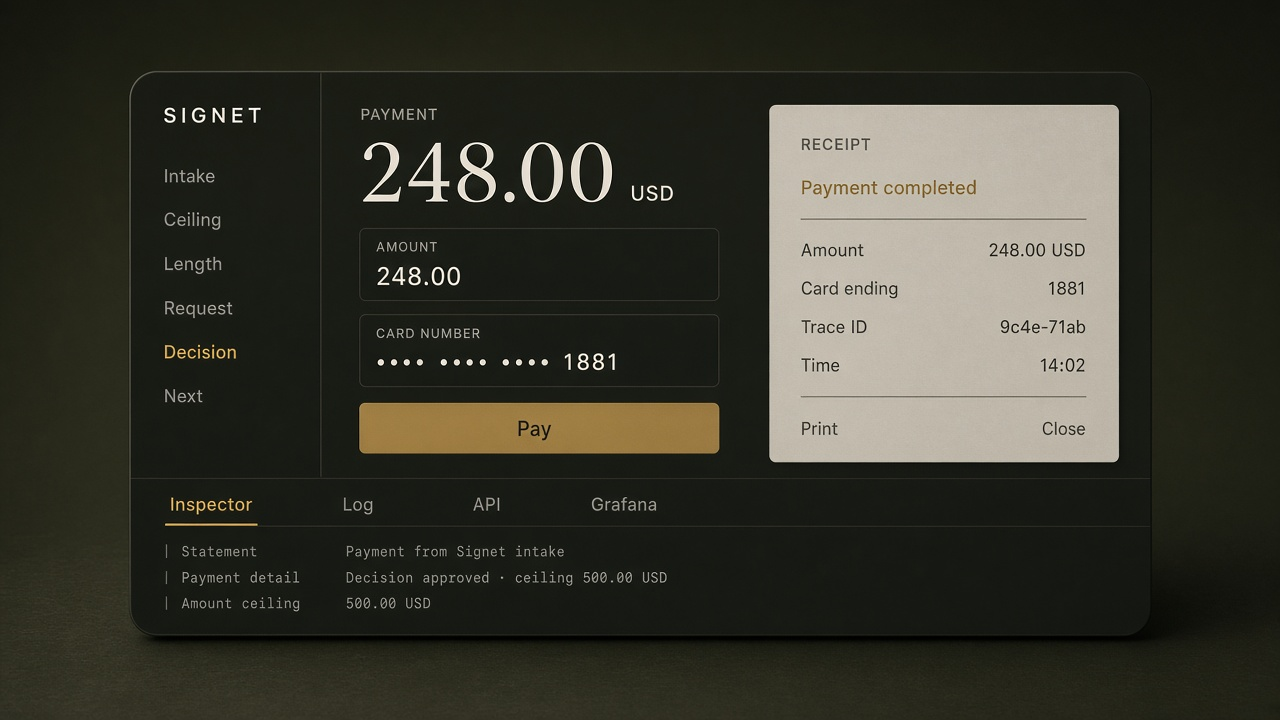
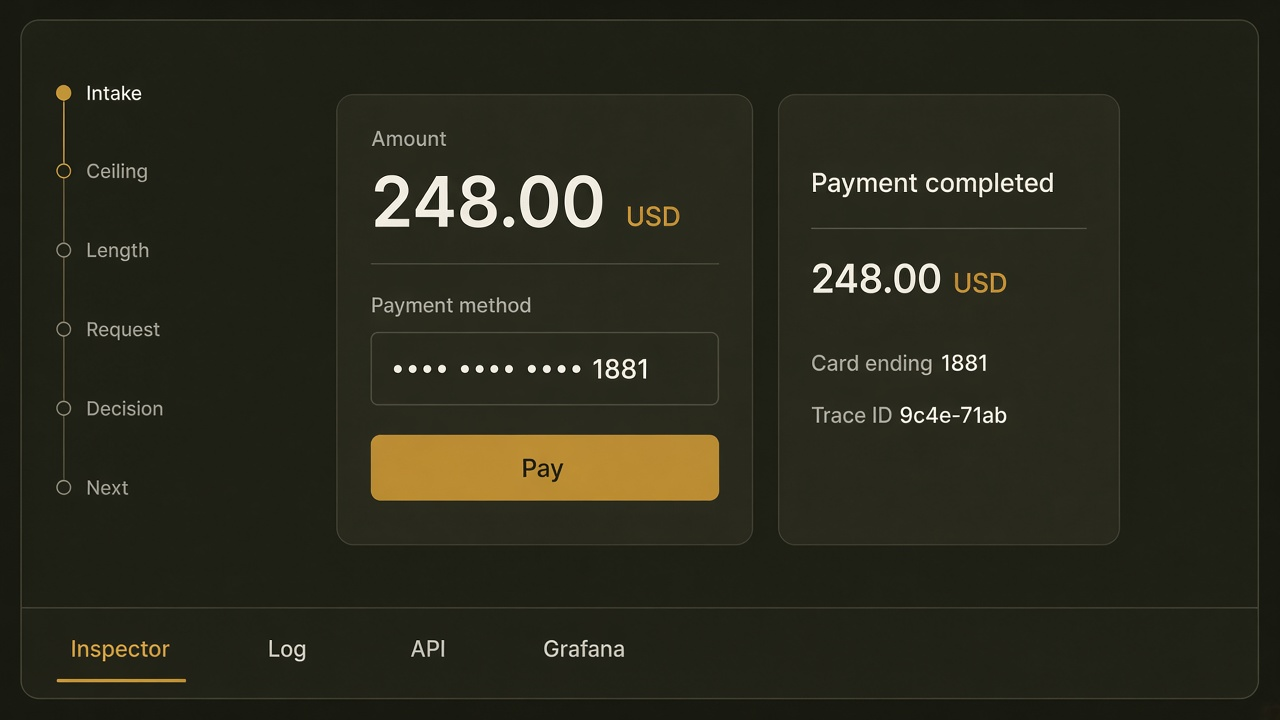
Show the gateway as a system graphic on the GitHub page.

diff --git a/README.md b/README.md
@@ -1,51 +1,64 @@
 # Signet
 
-![Signet checkout and operations console](docs/signet-gateway.jpg)
+![Python](https://img.shields.io/badge/Python-3.12-3776AB?logo=python&logoColor=white) ![FastAPI](https://img.shields.io/badge/FastAPI-009688?logo=fastapi&logoColor=white) ![Docker](https://img.shields.io/badge/Docker-2496ED?logo=docker&logoColor=white) ![Postgres](https://img.shields.io/badge/Postgres-4169E1?logo=postgresql&logoColor=white) ![OpenTelemetry](https://img.shields.io/badge/OpenTelemetry-425CC7?logo=opentelemetry&logoColor=white) ![Grafana](https://img.shields.io/badge/Grafana-F46800?logo=grafana&logoColor=white)
 
-**E-commerce payment gateway, with the operations console on the same screen.** A shopper enters an amount and a card number. Signet walks the payment through six steps: Intake, amount ceiling, card length, authorization request, decision, and next action. Success issues a receipt with a trace id. The full card number is never stored and never returned. The decision runs inside this service.
+![Signet gateway](docs/signet-gateway.jpg)
 
-**Public app:** https://signet-3oz8.onrender.com  
-**Local app:** http://127.0.0.1:8001/  
-**Grafana (this PC only):** http://127.0.0.1:3001
+**An e-commerce payment gateway, with the operations console beside it.**
 
-`main` auto-deploys the Render development service. Production is a manual deploy in the Render dashboard. Grafana is not on the public service.
-
-Ops tabs: **Inspector · Log · API · Grafana**.
-
-## Checkout
-
-A checkout has to stop in a definite place. The amount can be over the ceiling. The card number can be the wrong length. One card is accepted. One card is declined from a stored plate. Every other valid card receives one stored institution sentence, or a plain "no rule" sentence when none is stored. The shopper sees the sentence and the next action on the same screen.
-
-Operators watch the same payment from Ops. Inspector shows the latest statement, the payment detail, and the amount ceiling at the bottom. Log shows the authorization rows. API shows the live routes. Grafana, on this PC only, shows request rate and latency. Those four views sit beside the checkout.
+**Public service:** https://signet-3oz8.onrender.com  
+**Local app:** http://127.0.0.1:8001/
 
 ## Table of contents
 
-- [Checkout](#checkout)
-- [Six steps](#six-steps)
-- [Receipt](#receipt)
-- [Operations console](#operations-console)
-- [Run locally](#run-locally)
-- [Public service](#public-service)
-- [Rollback](#rollback)
+- [Overview](#overview)
+- [Tech stack and architecture](#tech-stack-and-architecture)
+- [Core features](#core-features)
+- [Quick start](#quick-start)
+- [Deployment](#deployment)
 
 ---
 
-## Six steps
+## Overview
 
-1. **Intake.** Amount and card number.
-2. **Amount ceiling.** Greater than 0 and at most the stored ceiling. The default ceiling is 500.00 USD.
-3. **Card length.** 13 to 19 digits.
-4. **Authorization request.**
-5. **Decision.** Runs inside this service.
-6. **Next action.** Completed, or the edit the decision allows.
+A shopper enters an amount and a card number. Signet runs that payment through a six-step pipeline: Intake, amount ceiling, card length, authorization request, decision, and next action. A successful payment issues a receipt with a trace id. The full card number is never stored and never returned. The decision runs inside this service.
 
-CVC is collected on the form and is not sent, stored, logged, or printed.
+The amount must be greater than 0 and at most the stored ceiling. The default ceiling is 500.00 USD. The card number must be 13 to 19 digits. CVC is collected on the form and is not sent, stored, logged, or printed.
+
+One card is accepted. One card is declined from a stored plate. Every other valid card receives one stored institution sentence, or a plain "no rule" sentence when none is stored. The shopper sees that sentence and the next action on the same screen.
 
 [↑ Contents](#table-of-contents)
 
 ---
 
-## Receipt
+## Tech stack and architecture
+
+| Piece | Role |
+| --- | --- |
+| FastAPI | Checkout, the six-step pipeline, and the operations routes |
+| Postgres | Payments, the amount ceiling, and the stored plate |
+| OpenTelemetry | Request traces and metrics |
+| Grafana | Local dashboards for request rate and latency |
+| Docker | The app, Postgres, and the local observability stack |
+
+Grafana runs on this PC only, at http://127.0.0.1:3001. It is not part of the public service.
+
+Intake takes the amount and the card number. The ceiling and length steps stop a payment that cannot proceed. Authorization request and decision run in this service. Next action is completed, or the edit the decision allows.
+
+[↑ Contents](#table-of-contents)
+
+---
+
+## Core features
+
+Ops sits beside the checkout. The tabs are Inspector, Log, API, and Grafana.
+
+| Tab | What it shows |
+| --- | --- |
+| Inspector | The latest statement, the payment detail, and the amount ceiling at the bottom. Set limit writes the ceiling used by the amount step. There is no screen for editing institution sentences. |
+| Log | Authorization rows. No card column. |
+| API | Live routes and `/docs`. |
+| Grafana | Local only, at http://127.0.0.1:3001. It is not part of the public service. |
 
 A completed payment can be opened as a receipt. The receipt shows the amount, a masked card, the trace id, and the time. Print and Close are the only receipt actions. Close does not discard the statement. End, beside AC, does.
 
@@ -53,24 +66,9 @@ A completed payment can be opened as a receipt. The receipt shows the amount, a 
 
 ---
 
-## Operations console
+## Quick start
 
-Open Ops on the checkout. The tabs are Inspector, Log, API, and Grafana.
-
-| Tab | What it shows |
-| --- | --- |
-| Inspector | The latest statement, then the payment detail, then the amount ceiling at the bottom. Set limit writes the ceiling used by the amount step. There is no screen for editing institution sentences. |
-| Log | Authorization rows. No card column. |
-| API | Live routes and `/docs`. |
-| Grafana | Local only, at http://127.0.0.1:3001. It is not part of the public service. |
-
-[↑ Contents](#table-of-contents)
-
----
-
-## Run locally
-
-```
+```bash
 docker compose -f docker-compose.yaml up -d --build
 ```
 
@@ -88,24 +86,20 @@ Postgres is on host port 5433. The app listens on 8001.
 
 ---
 
-## Public service
+## Deployment
 
-https://signet-3oz8.onrender.com
+Public service: https://signet-3oz8.onrender.com
 
-Render web service, Docker, branch `main`, plus Render Postgres. Set `DATABASE_URL` to the Render Postgres connection string. `main` auto-deploys the development service. Production is a manual deploy in the Render dashboard.
+`main` auto-deploys the Render development service. Production is a manual deploy in the Render dashboard. The service is a Render web service on Docker, branch `main`, plus Render Postgres. Set `DATABASE_URL` to the Render Postgres connection string.
 
 The image listens on Render's `PORT`:
 
-```
+```text
 uvicorn app.main:app --host 0.0.0.0 --port ${PORT:-8001}
 ```
 
 Grafana and the local agent pack are not deployed there.
 
+To roll back, keep the previous deploy. In the Render service, open Events or Deploys, choose the earlier successful deploy, and roll back. The previous image serves again. Do not delete that older deploy until the new one is confirmed.
+
 [↑ Contents](#table-of-contents)
-
----
-
-## Rollback
-
-Keep the previous deploy. In the Render service, open Events or Deploys, choose the earlier successful deploy, and roll back. The previous image serves again. Do not delete that older deploy until the new one is confirmed.
